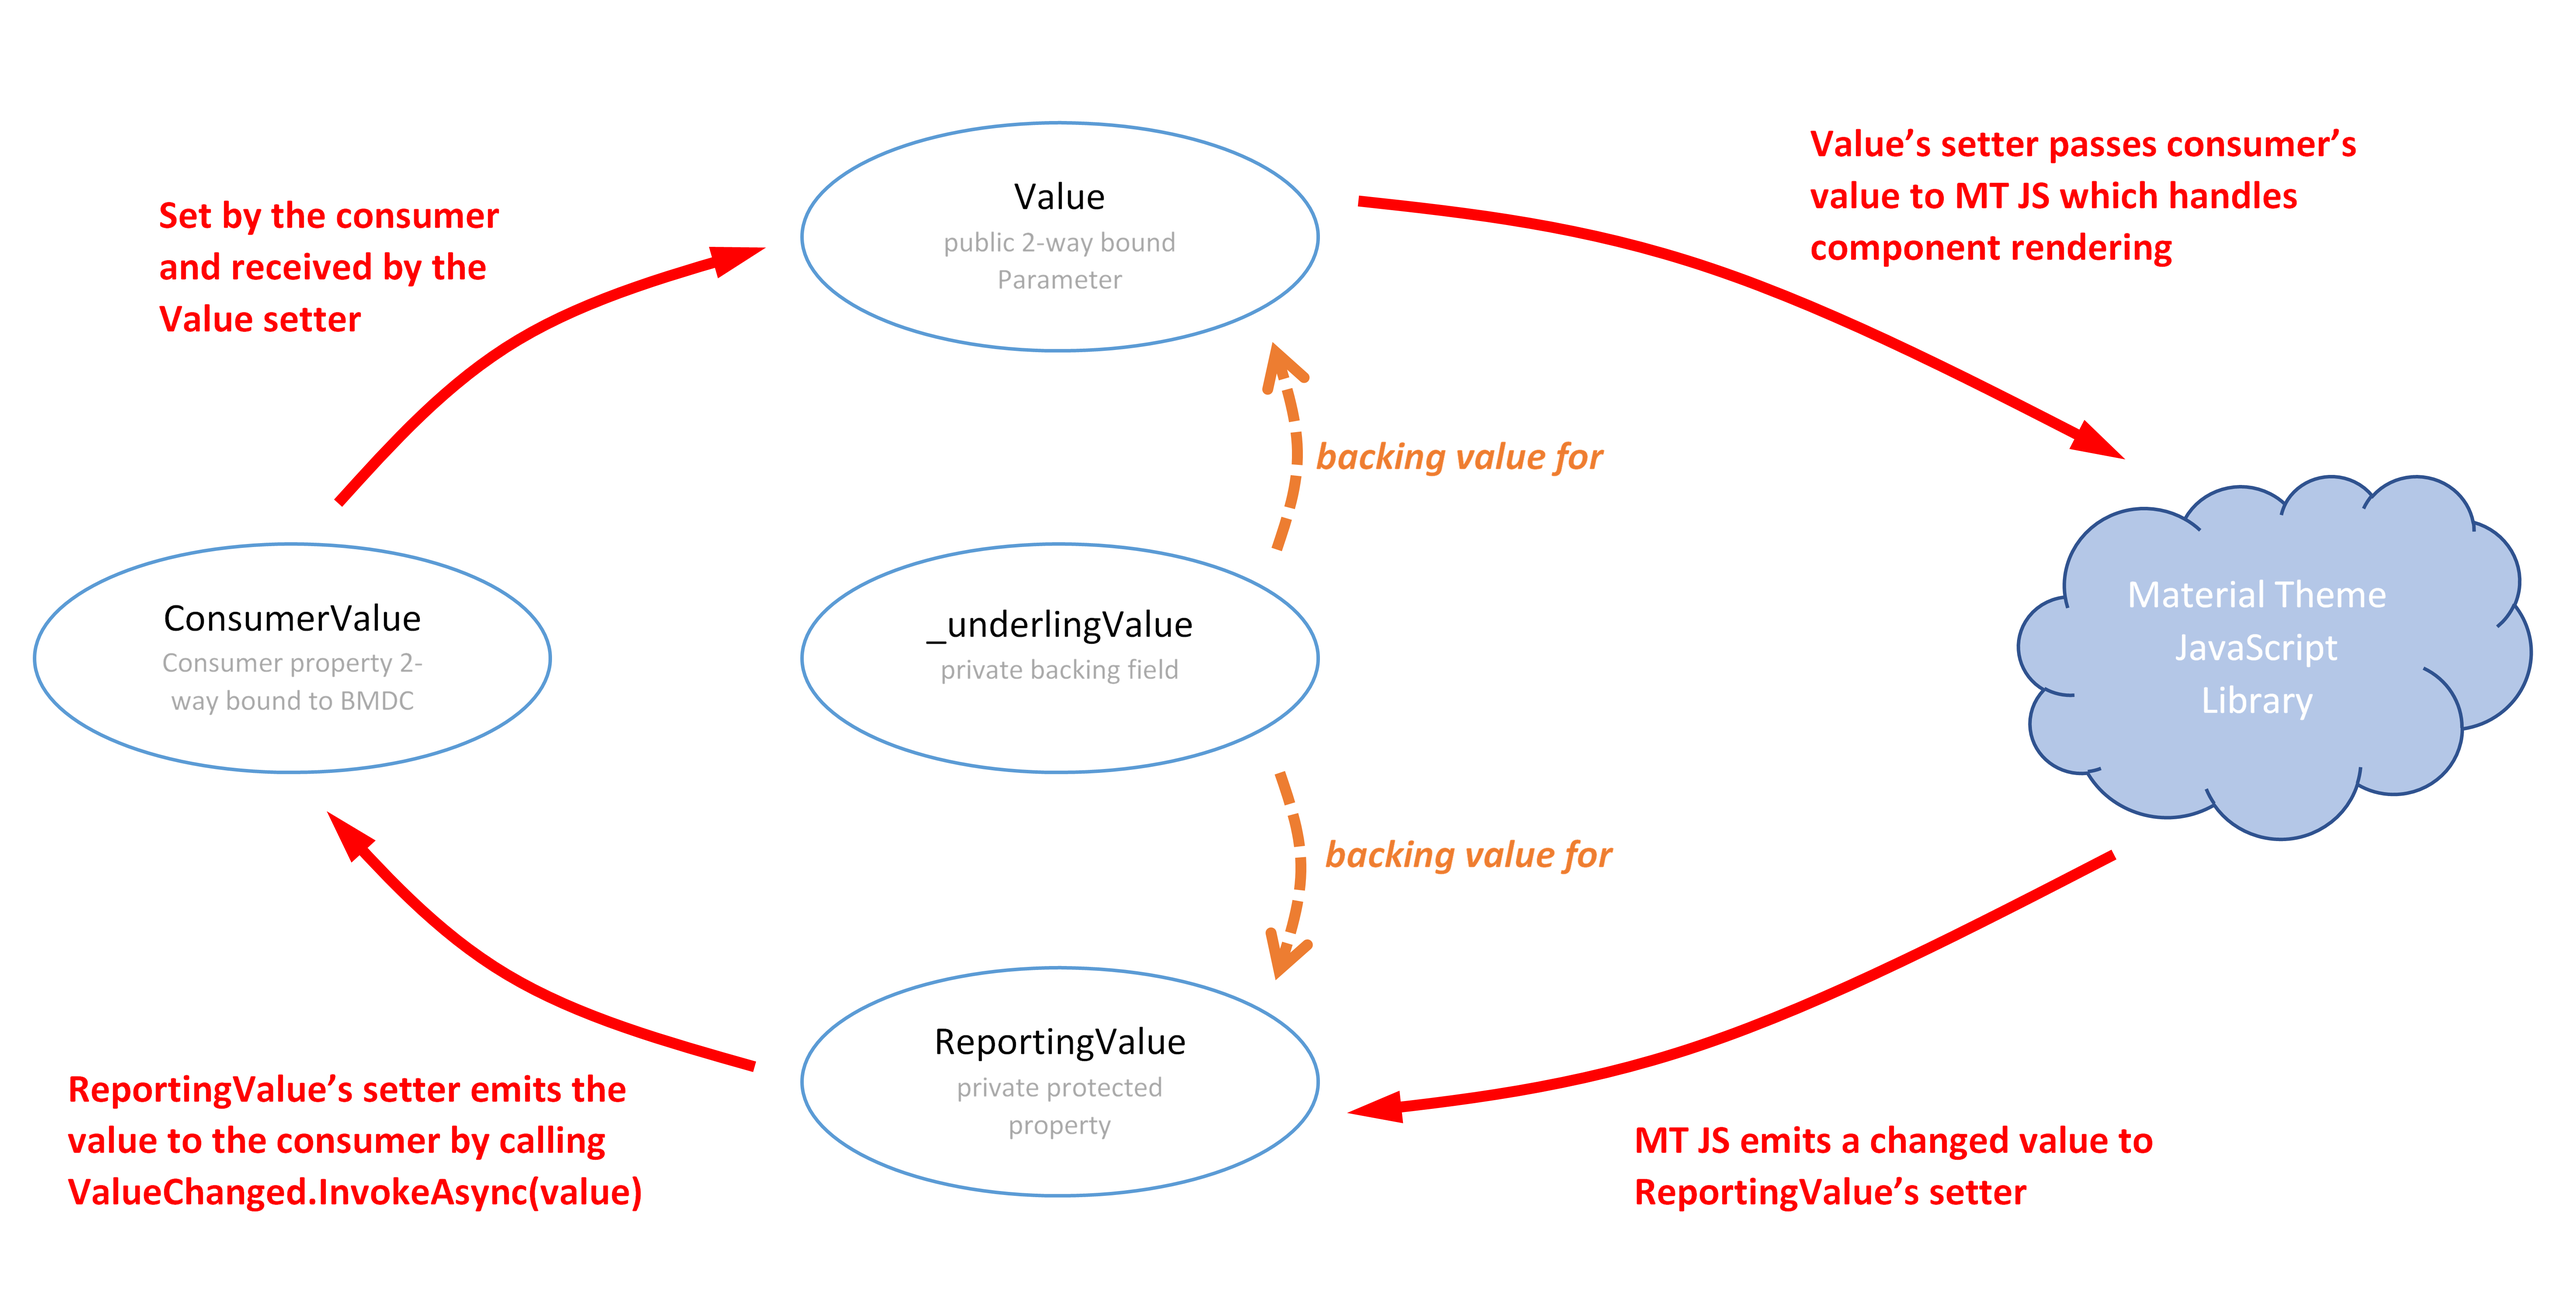
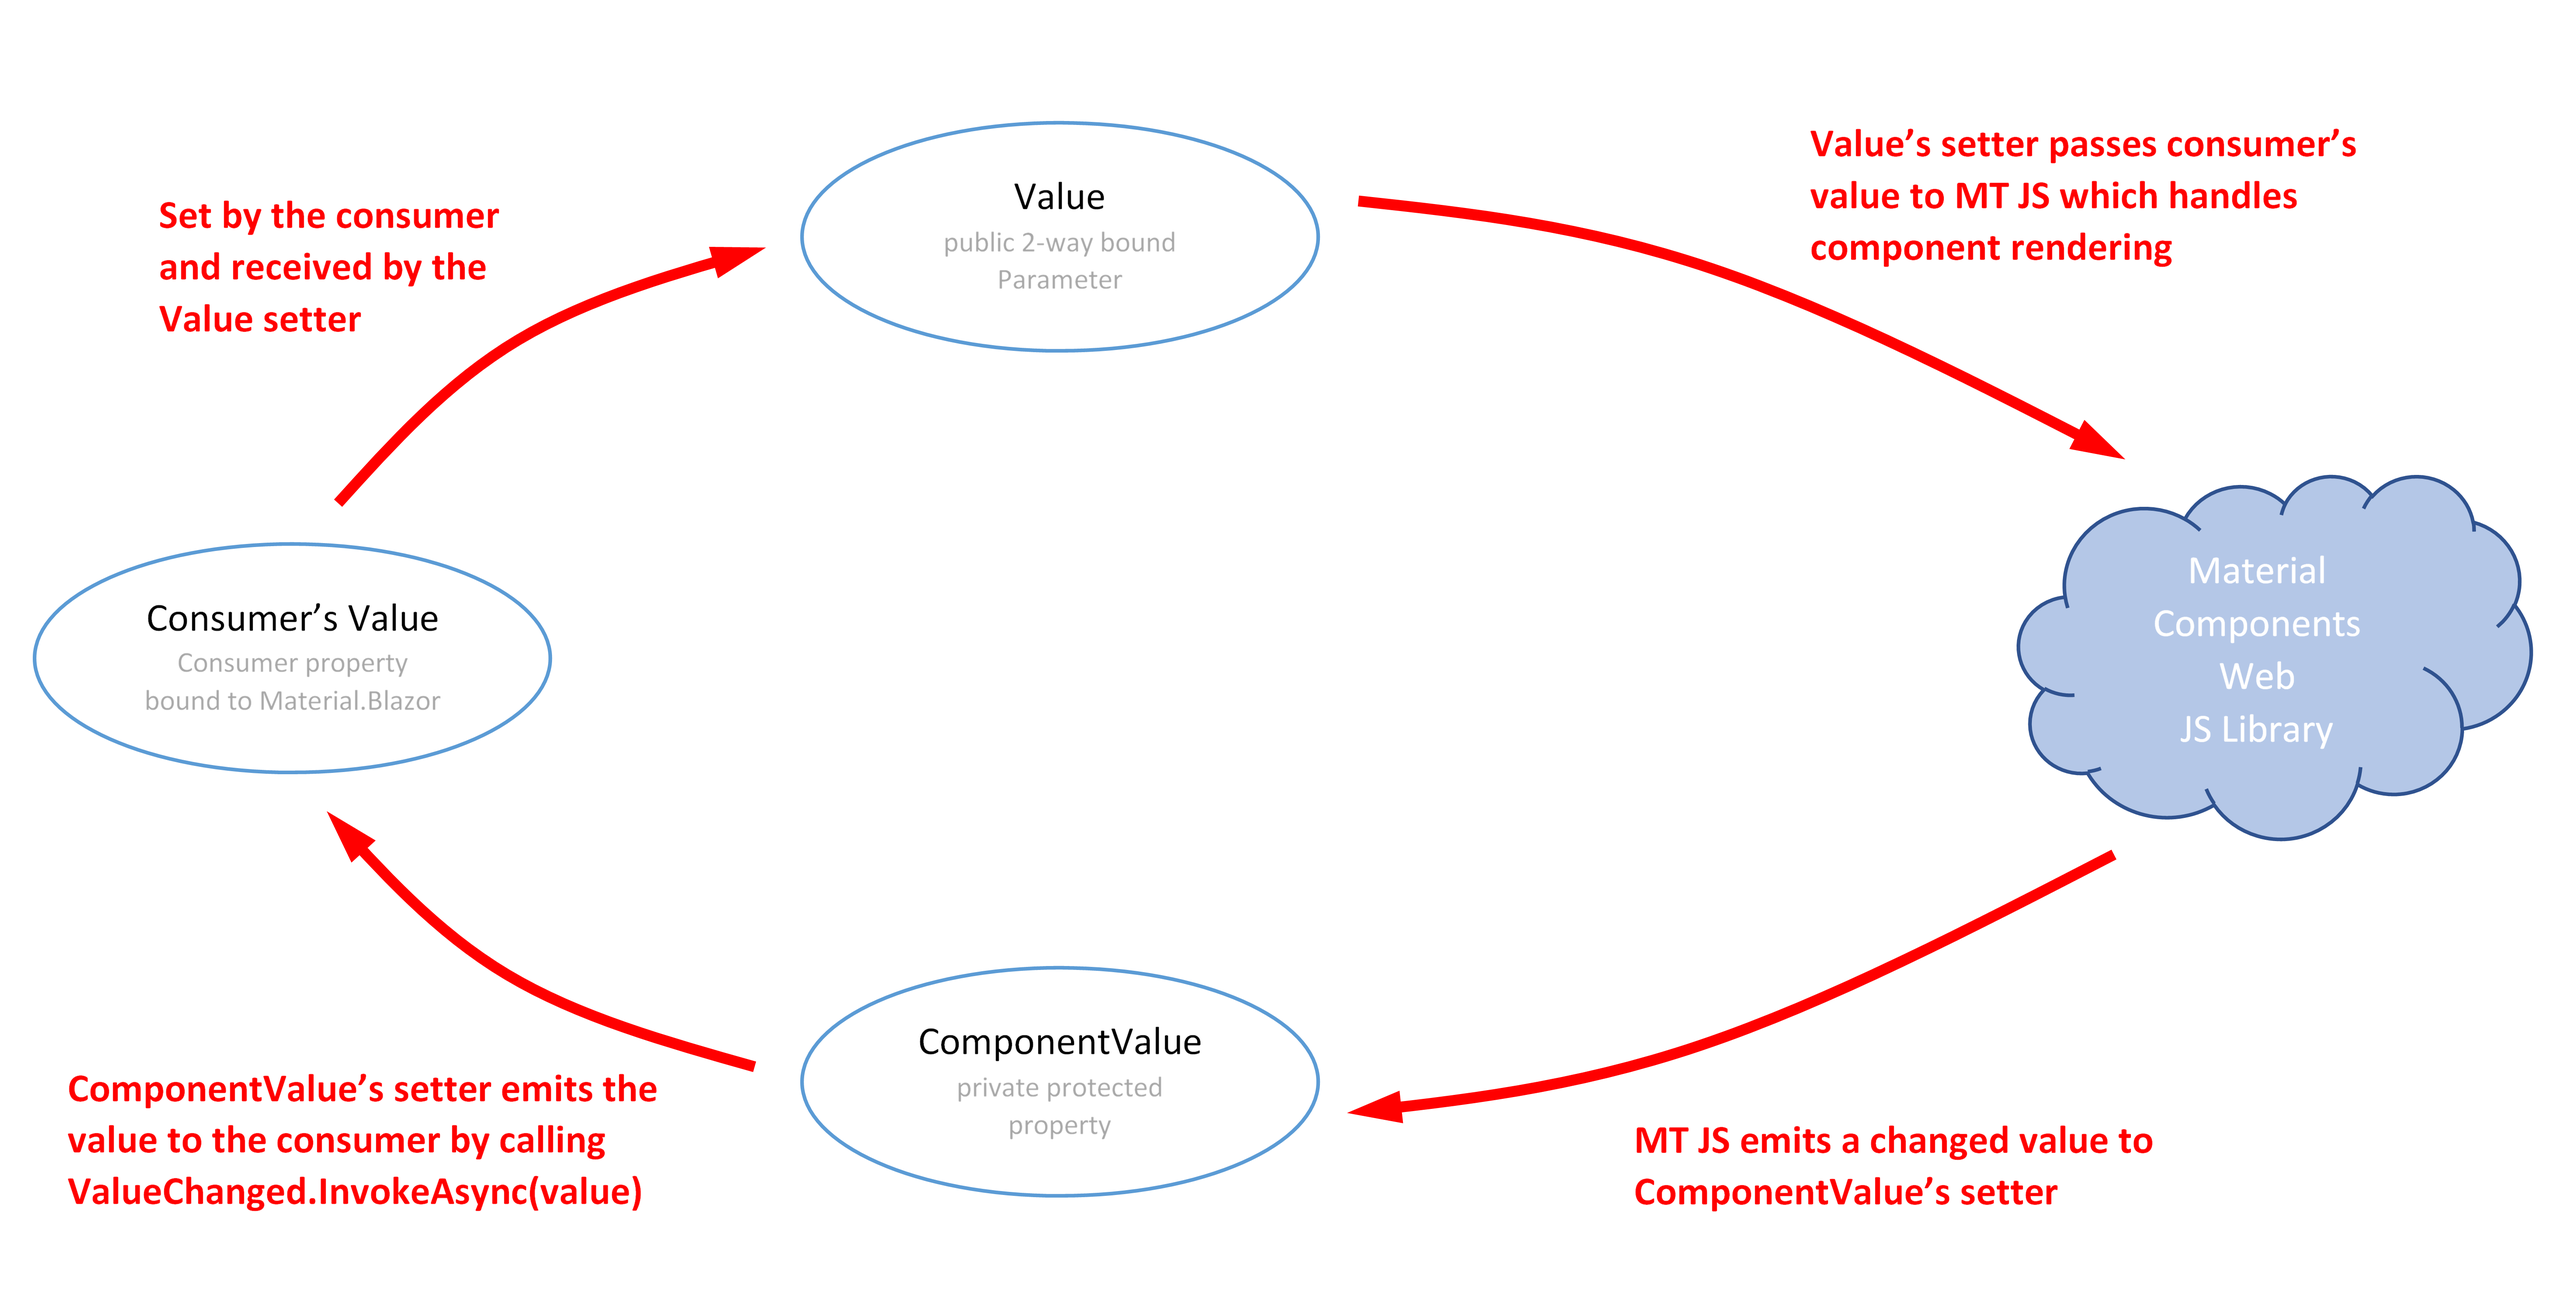
Docs updates

diff --git a/Material.Blazor/Foundation/ValidatingInputComponentFoundation.cs b/Material.Blazor/Foundation/ValidatingInputComponentFoundation.cs
@@ -16,7 +16,7 @@ namespace Material.Blazor.Internal
         /// </summary>
         /// <param name="items">The item list</param>
         /// <param name="appliedItemValidation">Specification of the required validation <see cref="MBItemValidation"/></param>
-        /// <returns>The item in the list matching <see cref="InputComponentFoundation{T}._underlyingValue"/></returns>
+        /// <returns>The item in the list matching <see cref="InputComponentFoundation{T}._cachedValue"/></returns>
         /// <exception cref="ArgumentException"/>
         public T ValidateItemList(IEnumerable<MBListElement<T>> items, MBItemValidation appliedItemValidation)
         {

diff --git a/articles/TwoWayBinding.md b/articles/TwoWayBinding.md
@@ -9,8 +9,8 @@ to resolve an inherent conflict between how Blazor re-renders components when bo
 how a JavaScript framework such as [Material Components Web ("MCW")](https://github.com/material-components/material-components-web) works.
 
 In a pure Blazor world, Blazor takes care of rendering and re-rendering for you. In doing so it overwrites the relevant part of the
-DOM. In a pure Material Theme world on the other hand, you mark your page up once and then call some initiation JavaScript on your
-material web components, from which point Material Theme manipulates the DOM with user interaction. Let's consider an empty text field.
+DOM. In a pure Material Theme world on the other hand, you mark your page up once and then call some instantiation JavaScript on your
+material web components, from which point Material Components Web manipulates the DOM with user interaction. Let's consider an empty text field.
 
 This article explains how Blazor's natural rendering mechanism and MCW are in contention and what we do to manage
 this gracefully.
@@ -69,12 +69,18 @@ how its state after receiving focus. The transition between the last two is anim
 What we see from this is that if Material.Blazor were to allow Blazor to re-render, this would be with markup similar to 1. above and
 MCW will then fail to manipulate the DOM correctly thereafter - we know this because we tried.
 
-## Handling Two Way Binding
+## Other Blazor Issues
+
+Another factor we faced is that Blazor can perform a "bounce" when passing values into a component. This can be observed when using Cascading
+Values; [see this GitHub issue](https://github.com/dotnet/aspnetcore/issues/24599#issuecomment-697588562) explaining the problem and receiving a detailed response from Steve Sanderson.
+Coupling this with the need to prevent Blazor rendering brought us to the two way binding pattern that we use.
+
+## How We Do Two Way Binding
 
 When we first identified this issue during Material.Blazor's development we realized that our Blazor code needed to first render a
-new component and then immediately after initiating it step out of MCW's way by applying `ShouldRender() => false;` 
-in `InputComponentFoundation`. To begin with this is all we did and so subsequent attempts by the consumer (your project) 
-to update Value were ignored, which is an unacceptable result. Fortunately each MCW component has a rich 
+new component and then immediately after instantiating it step out of MCW's way by applying `ShouldRender() => false;` 
+in `InputComponentFoundation`. If we did no more, two way binding would be broken because subsequent attempts by the consumer (your project) 
+to update Value are ignored, which is an unacceptable result. Fortunately each MCW component has a rich 
 JavaScript library that includes both the ability to set a value in the future and to be notified of that value being changed by 
 the user. We make use of this in our two way binding for the `Value` parameter, and do something similar for the `Disabled` 
 parameter.
@@ -86,7 +92,7 @@ The principle is like this:
 Each component inheriting from `InputComponentFoundation` implements this mechanism separately calling the JavaScript provided
 by MCW for that component:
 
-- Overrides `OnValueSet` from `InputComponentFoundation` to call the relevant MCW code via JSInterop;
+- Overrides `SetComponentValue` from `InputComponentFoundation` to call the relevant MCW code via JSInterop;
 - Registers a JSInterop callback with MCW for notification of value changes;
 - Overrides `OnDisabledSet` from `ComponentFoundation` for to either call MCW via JSInterop to set the disabled state or to do so directly via Blazor binding as relevant; and
 - *Does not* bind Value to any elements in the razor markup.
@@ -95,7 +101,22 @@ Without this careful mechanism Blazor and MCW can enter an infinite positive fee
 
 ## Debouncing
 
-One last thing. We noticed that in some situations Blazor bounces two way bound values - this has been noted in an 
-[ASP.NET GitHub Issue](https://github.com/dotnet/aspnetcore/issues/22159). We have found that before calling a component's
-`OnValueSet` override, we need a 1 millisecond debounce in `InputComponentFoundation` to prevent another infinite positive 
-feedback bounce loop.
+One last thing. In the [GitHub issue](https://github.com/dotnet/aspnetcore/issues/24599#issuecomment-697588562) that we mentioned above, `Value`
+can bounce. We handle this by over-riding `OnParametersSet()` and `OnParametersSetAsync()` and checking for changes against cached versions of both
+`Value` and `ComponentValue`. Material.Blazor only propagate changes to `Value` when it is indicative of a genuine consumer two-way binding 
+data update:
+
+- First there are cached versions of both `Value` and `ComponentValue`.
+- In `OnParametersSet()`, if `Value` differs to `_cachedValue` we know that there is a genuine change of value (i.e. not a Cascading Value derived bounce).
+  - If there is no change Material.Blazor does nothing more in `OnParametersSet()`.
+  - If there is a change, `_cachedValue` is update and we move to the next test.
+- Next we test `Value` against `ComponentValue`:
+  - If they are the same, then we know that the component has been called in response to `ComponentValue` having emitted a `ValueChanged` event and we exit `OnParametersSet()`.
+  - If they differ, we now know that this is a genuine new value. Material.Blazor sets `_cachedComponentValue` to `Value` and calls the component's value setter via JSInterop.
+
+When the user interacts with the app changing a component's value, this is emitted via JSInterop to set `ComponentValue`
+
+- First this new value is compared by the setter for `ComponentValue` to `_cachedComponentValue` further action is only taken if they differ.
+- Next `_cachedComponentValue` is updated accordingly.
+- Last the consumer code is notified of value changes by calling `ValueChanged()`.
+- Note that Material.Blazor never sets `Value` in response to user/component interaction - this is the pattern set out by Steve Sanderson.
